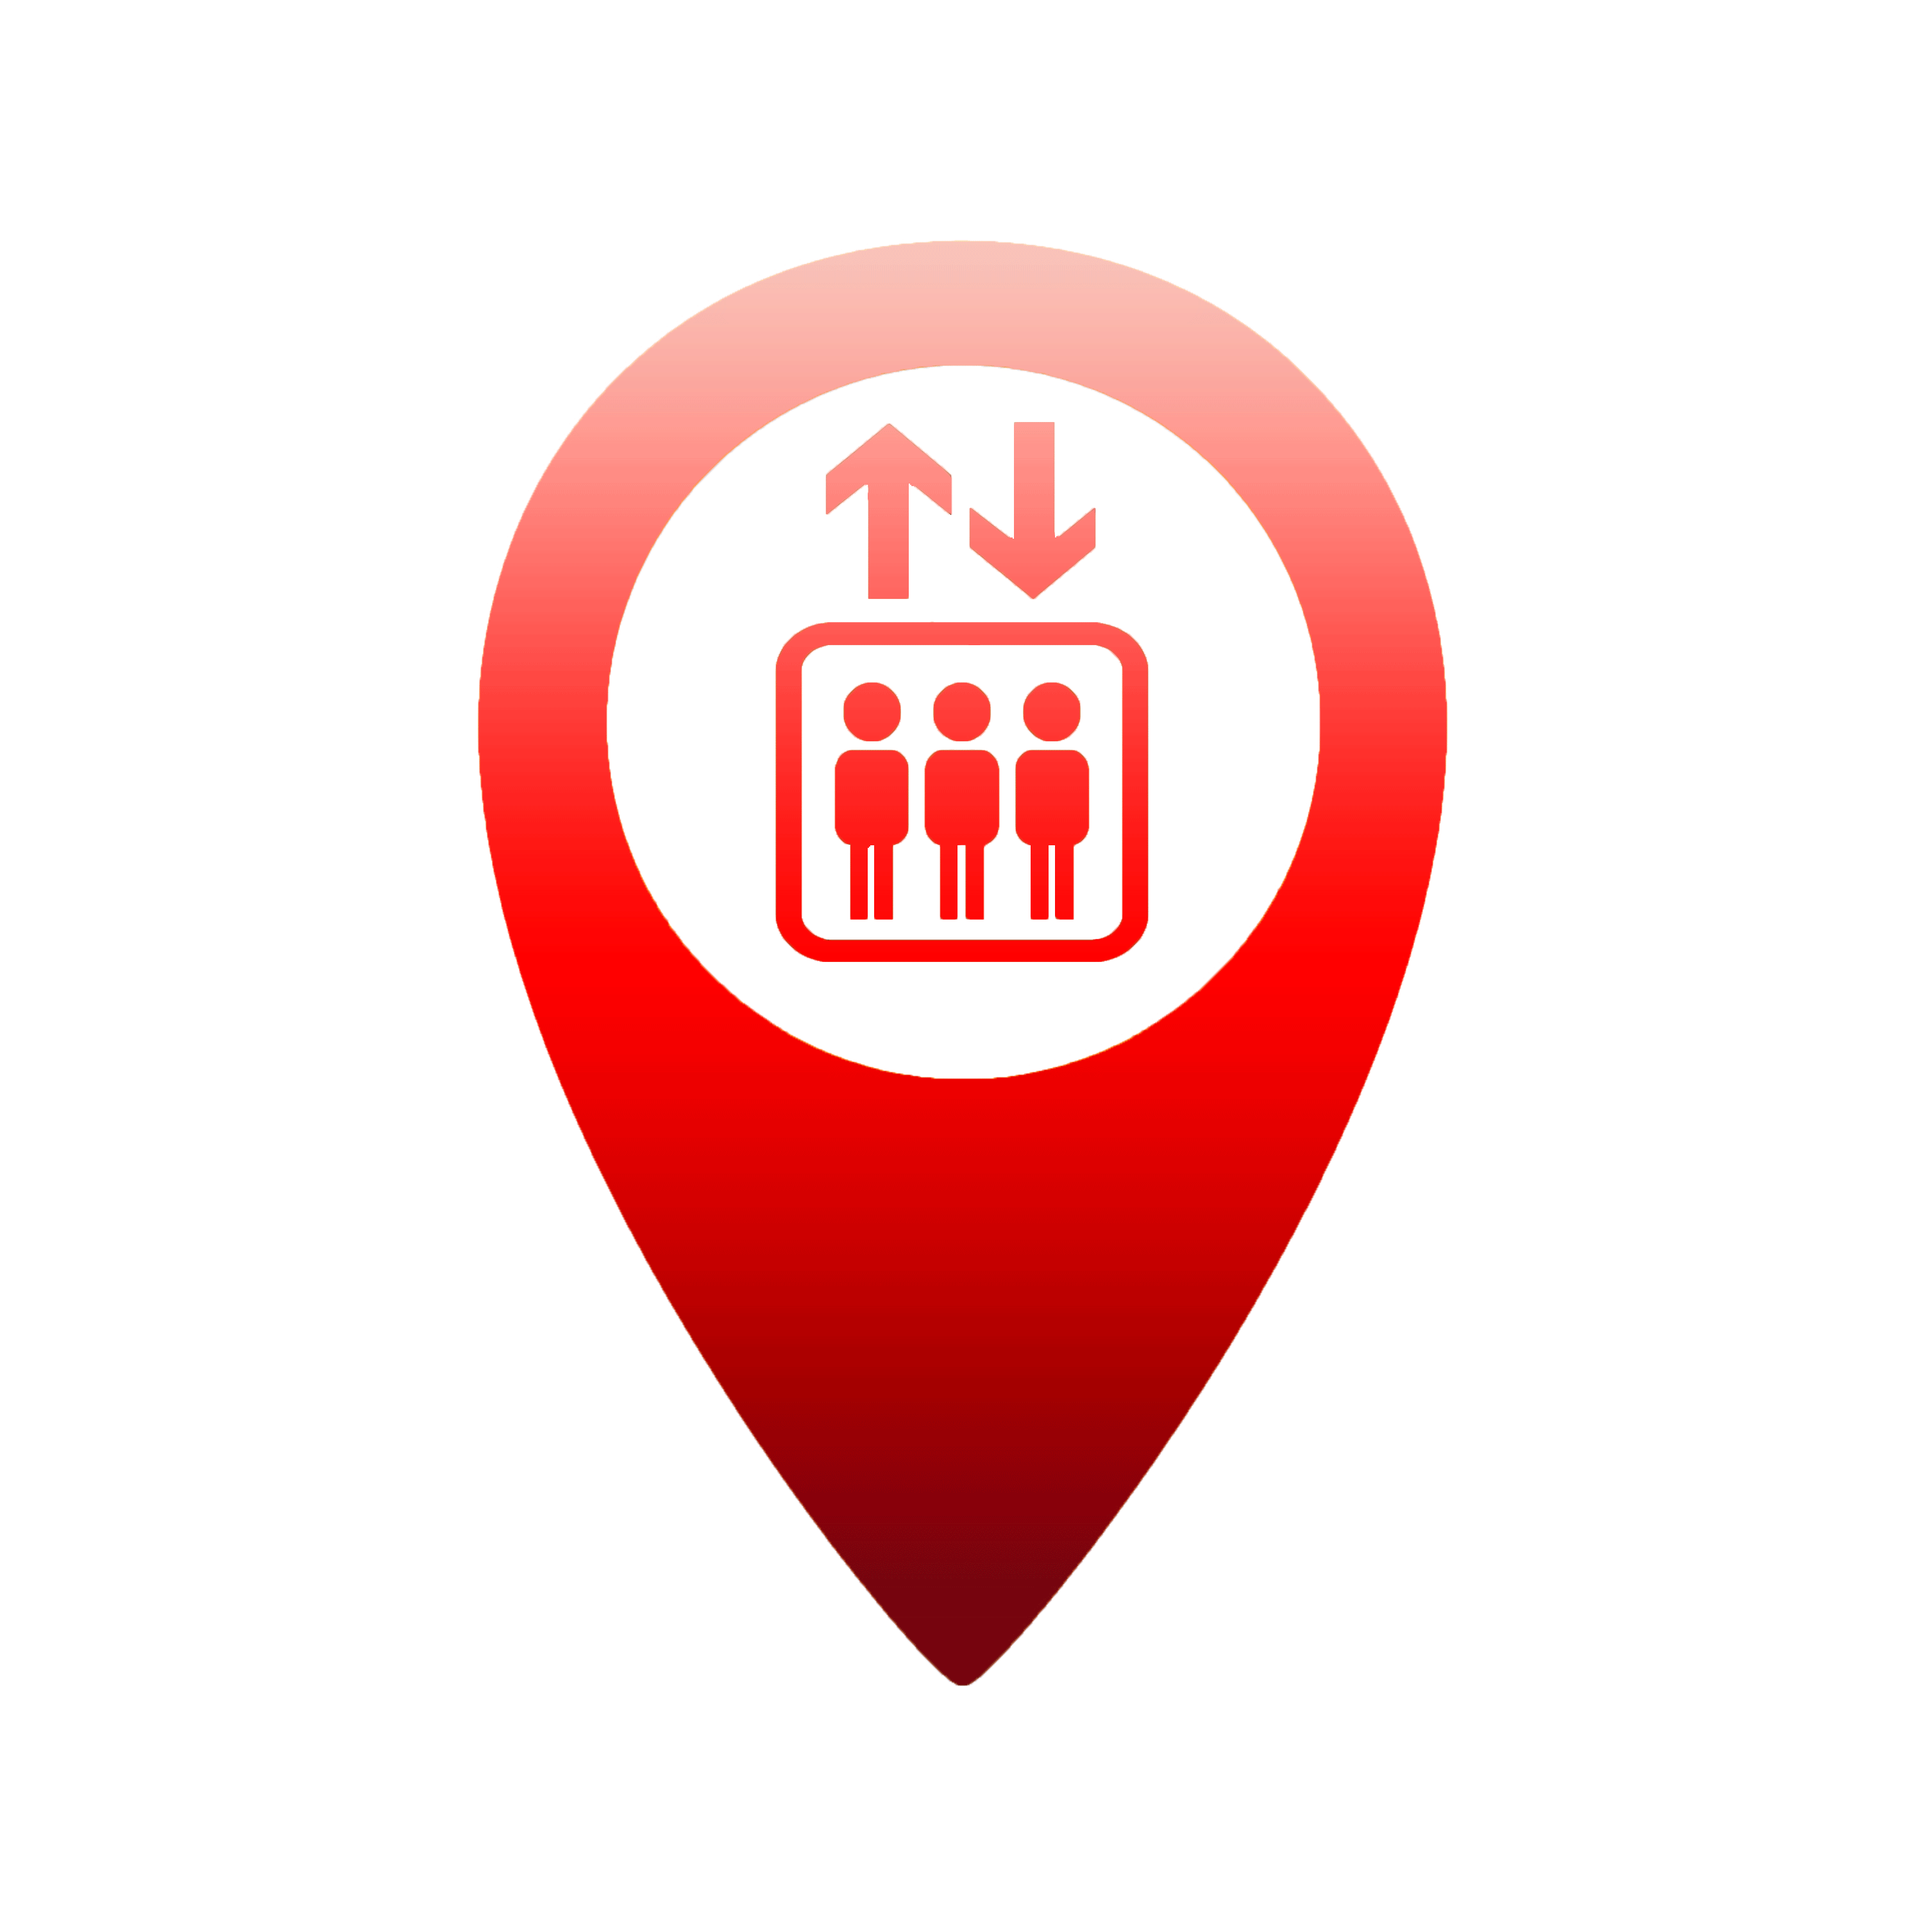
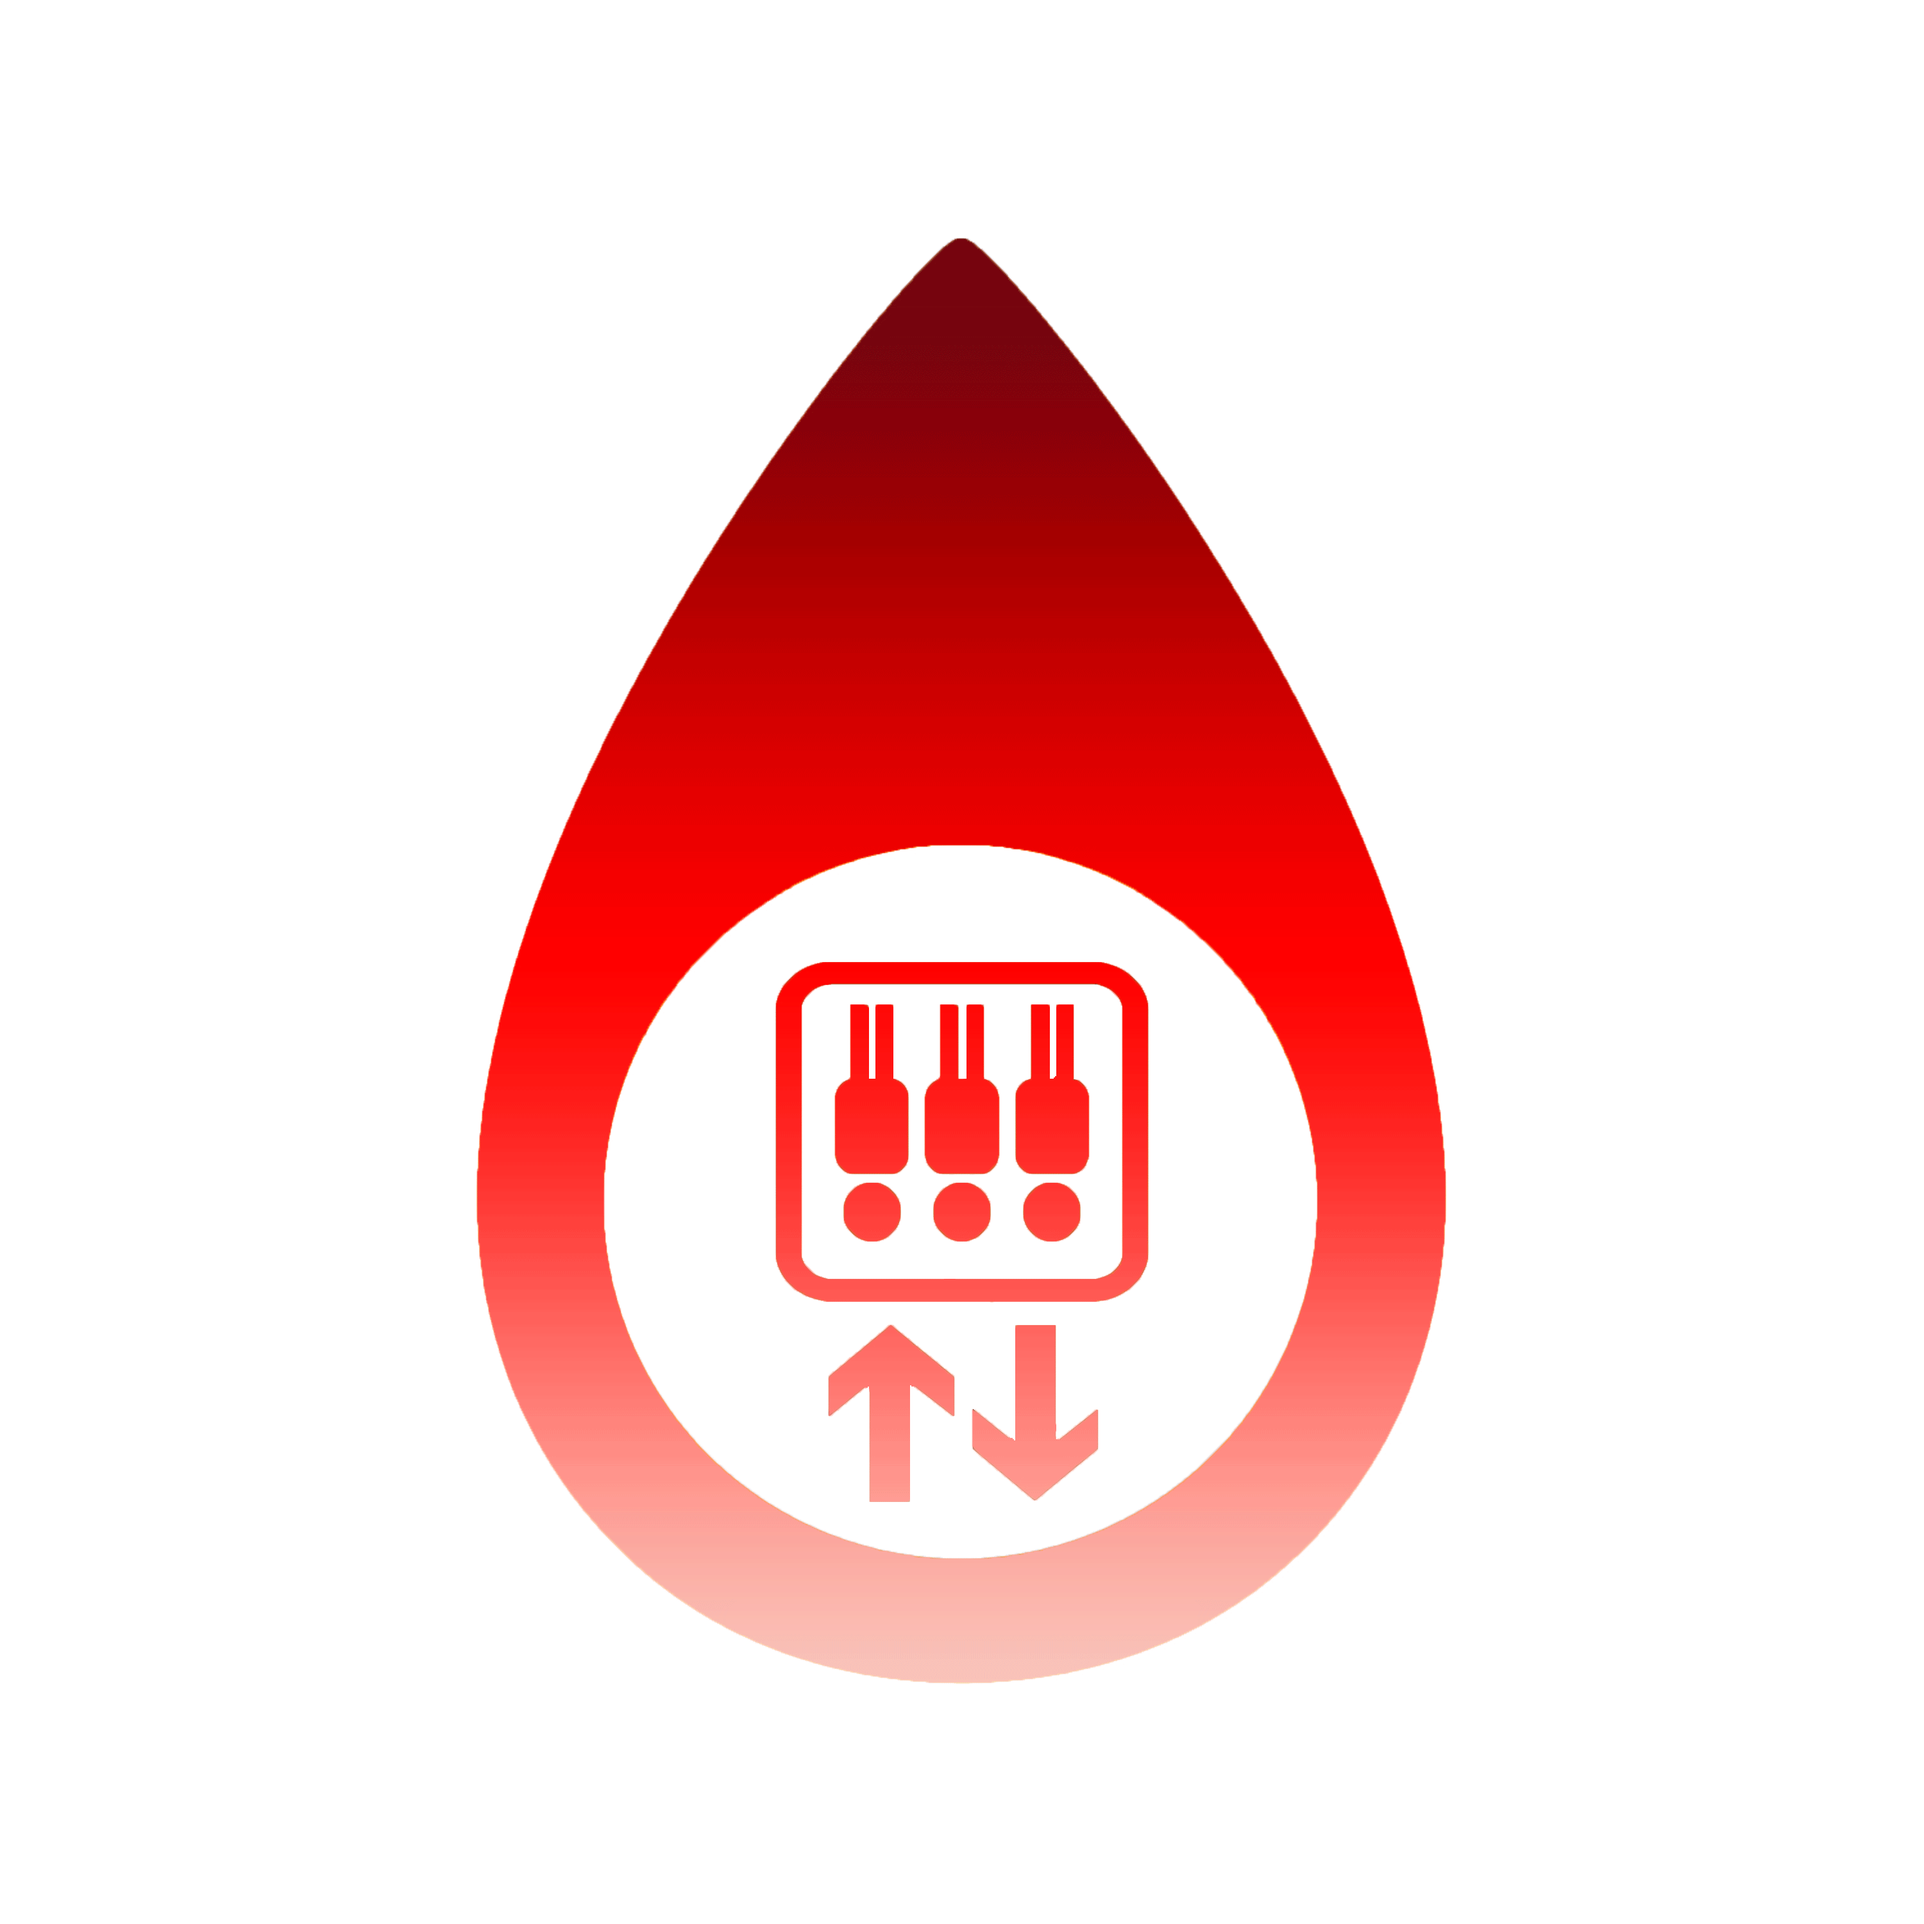
3.5.6

Changed region(s): [[0.248, 0.124, 0.775, 0.899]]

diff --git a/templates/new_map.html b/templates/new_map.html
@@ -306,7 +306,7 @@
 
          <li id='title-block' class='fill-denim dark keyline-bottom'>
             <div class='co14 margin1 button short fr fill-blue refresh'>Refresh</div>
-            <div class='co14 margin1 button short fr fill-blue' id='crowded'>Show pedestrian</div>
+            <div class='co14 margin1 button short fr fill-blue' id='crowded'>Show Elevator</div>
         </li>
         <li>
             <table id="example">
@@ -427,12 +427,12 @@
             map.setLayoutProperty('places', 'visibility', 'none');
              });
 
-            map.loadImage('https://cdn.rawgit.com/MattMa0101/fair_journey/d7527193/if_toilet_103227.png', function(error, image) {
+            map.loadImage('https://cdn.rawgit.com/MattMa0101/fair_journey/b7325927/459566545566619251.png', function(error, image) {
                     if (error) throw error;
                     map.addImage('toilet_image', image);
                     map.addSource('toilet',{
                         type: 'geojson',
-                        data: 'https://cdn.rawgit.com/MattMa0101/fair_journey/ff1cd87d/elevator.geojson'
+                        data: 'https://cdn.rawgit.com/MattMa0101/fair_journey/b7325927/toilet.geojson'
                     })
 
                     map.addLayer({
@@ -449,12 +449,12 @@
             map.setLayoutProperty('toilet', 'visibility', 'none');
             });
 
-            map.loadImage('https://cdn.rawgit.com/MattMa0101/fair_journey/f8450fa1/icons8-crowd-filled-50.png', function(error, image) {
+            map.loadImage('https://cdn.rawgit.com/MattMa0101/fair_journey/b7325927/655423332772591980.png', function(error, image) {
                     if (error) throw error;
                     map.addImage('crowd', image);
                     map.addSource('crowd',{
                         type: 'geojson',
-                        data: 'https://cdn.rawgit.com/MattMa0101/fair_journey/37ac70ab/volume.geojson'
+                        data: 'https://cdn.rawgit.com/MattMa0101/fair_journey/b7325927/elevator.geojson'
                     })
 
                     map.addLayer({
@@ -463,7 +463,7 @@
                         "source": 'crowd',
                         "layout": {
                                 "icon-image": "crowd",
-                                "icon-size": 0.4,
+                                "icon-size": 0.05,
                                 "icon-allow-overlap": true
                             }
                     });
@@ -502,13 +502,13 @@
                 }
                 });
             $('#crowded').on('click', function(){
-                if(document.getElementById('crowded').innerHTML == "Hide pedestrian"){
+                if(document.getElementById('crowded').innerHTML == "Hide Elevator"){
                     map.setLayoutProperty('crowded', 'visibility', 'none');
-                    document.getElementById('crowded').innerHTML = "Show pedestrian";
+                    document.getElementById('crowded').innerHTML = "Show Elevator";
                 }
                 else {
                     map.setLayoutProperty('crowded', 'visibility', 'visible');
-                    document.getElementById('crowded').innerHTML = "Hide pedestrian";
+                    document.getElementById('crowded').innerHTML = "Hide Elevator";
                 }
                 });
     // Change the cursor to a pointer when the mouse is over the places layer.
